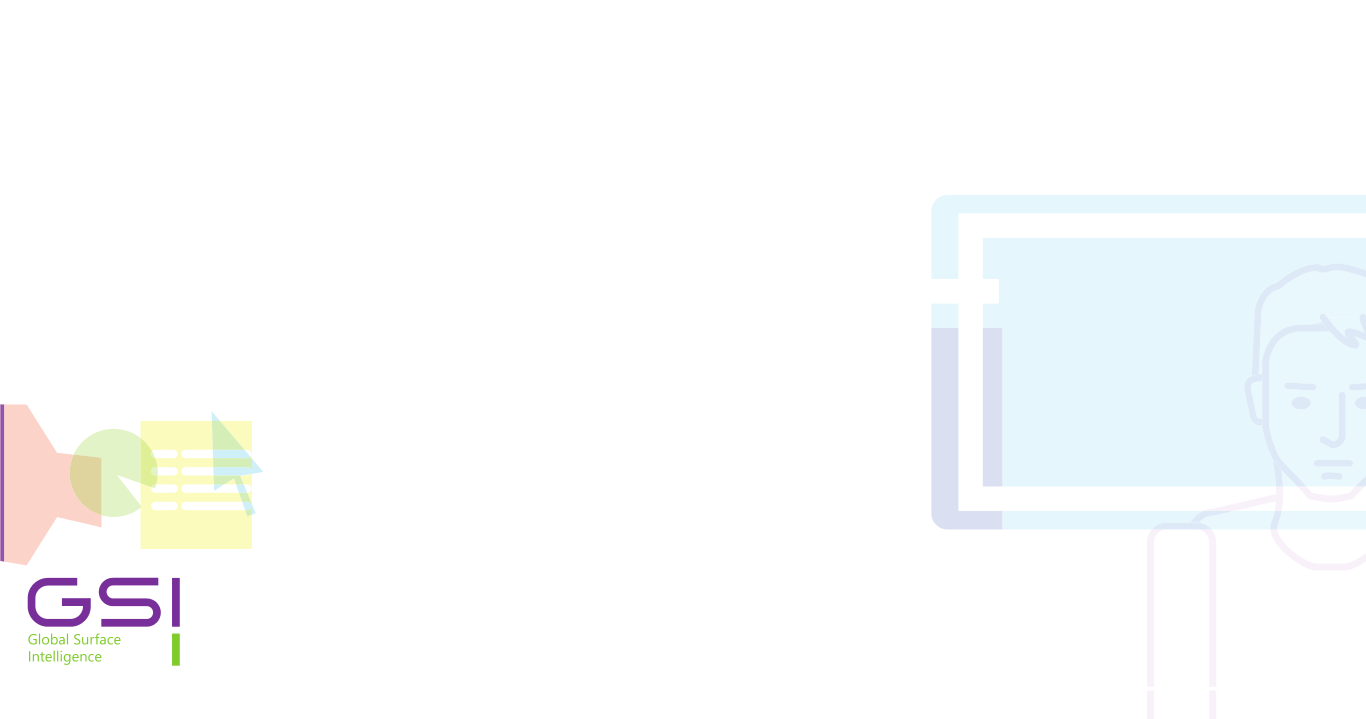
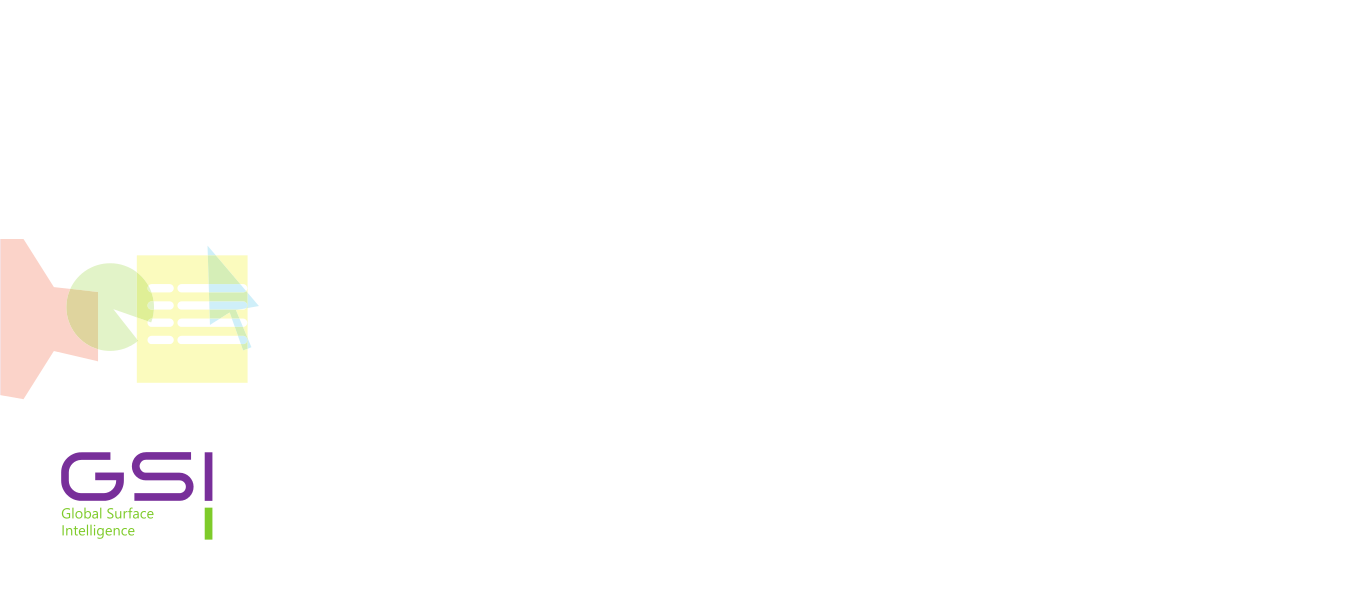
change design for the customer section

Changed region(s): [[0.6809, 0.2736, 1.0, 0.7601], [0.0, 0.3953, 0.1857, 0.9426], [0.9904, 0.6689, 1.0, 0.6993]]

diff --git a/src/templates/base_customer.html b/src/templates/base_customer.html
@@ -47,16 +47,16 @@
                     <!-- Start Top Menu -->
                     <div class="row">
                         <div class="col-md-12 center">
-                            <nav class="navbar navbar-static-top main-menu navbar-main-menu">
+                            <nav class="navbar navbar-static-top main-menu-customer navbar-main-menu">
                                 <div class="container-fluid">
-                                    <!-- Brand and toggle get grouped for better mobile display -->
-                                    <a class="dropbtn brand-logo navbar-brand" href="{% url 'index' %}">GSi</a>
-                                    <!-- End Brand and toggle get grouped for better mobile display -->
+                                    <!-- DataSets in the InfoPanel -->
+                                    <div class="navbar-brand white"><b class="purple">Dataset: </b><span id="info_dataset"></span></div>
+                                    <!-- End DataSets in the InfoPanel -->
 
                                     <div class="collapse navbar-collapse">
                                         <div class="dropdown user-profile" id="dropUser">
-                                            <button class="dropbtn-user dropdown-toggle" id="titleUser" onclick="showSubMenuUser()">
-                                                {{ request.user }}
+                                            <button class="dropbtn-user dropdown-toggle white" id="titleUser" onclick="showSubMenuUser()">
+                                                <b class="purple">User:</b> {{ request.user }}
                                                 <i class="fa fa-caret-right icon-visible-user"></i>
                                                 <i class="fa fa-caret-down icon-visible-user" style="display: none"></i>
                                             </button>
@@ -87,9 +87,9 @@
                         <form class="form-modal" id="customer_section_left" action="{% url 'customer_section' %}" method="get" enctype="multipart/form-data" role="form" class="form-horizontal">
                             {% csrf_token %}
 
-                            <div class="col-md-2 li-menu dropdown-left-0 left" id="dropdownMenu">
+                            <div class="col-md-2 li-menu dropdown-left-0 left col1" id="dropdownMenu">
                                 <label class="control-label margin-top-25">Datasets:</label>
-                                <select class="form-control margin-top-15" name="select" id="mydataset" onchange="showDataSets({{ data_set_id }})">
+                                <select class="form-control" name="select" id="mydataset" onchange="showDataSets({{ data_set_id }})">
                                     {% for ds in data_sets %}
                                         <option id="{{ ds.id }}" name="{{ ds }}" value="{{ ds.id }}" {% if data_set_id == ds.id %}selected="selected"{% endif %}>{{ ds }}</option>
                                     {% endfor %}
@@ -98,14 +98,15 @@
                         </form>
                         <!-- END Left Sidebar for the Customer Section -->
 
-                        <!-- Start Status Messages -->
-                        <div class="col-md-8">
-                            {% include '_base_message.html' %}
-                        </div>
-                        <!-- End Status Messages -->
+                        
+                        
 
                         <!-- Start Content -->
-                        <div class="col-md-8" id="content-column">
+                        <div class="col-md-8 margin-top-020" id="content-column">
+                            <!-- Start Status Messages -->
+                            {% include '_base_message.html' %}
+                            <!-- End Status Messages -->
+                            
                             <!-- Title -->
                             <h2>{% block title_customer %}{% endblock title_customer %}</h2>
                             <!-- End Title -->
@@ -115,11 +116,11 @@
 
 
                         <!-- Right Sidebar for the Customer Section -->
-                        {% if data_sets %}
-                            <form class="form-modal" id="customer_section_right" action="{% url 'customer_section' %}" method="post" enctype="multipart/form-data" role="form" class="form-horizontal">
-                                {% csrf_token %}
-
-                                <div class="col-md-2 li-menu dropdown-left-0 left" id="dropdownMenu">
+                        <form class="form-modal" id="customer_section_right" action="{% url 'customer_section' %}" method="post" enctype="multipart/form-data" role="form" class="form-horizontal">
+                            {% csrf_token %}
+                            
+                            <div class="col-md-2 li-menu dropdown-left-0 left col-map" id="dropdownMenu">
+                                {% if dirs_list %}
                                     <label class="control-label margin-top-25">Info Panel:</label>
                                     {# <h4 class="margin-top-40 background-fill-grey"><b>Info Panel</b></h4>#}
                                     <select class="form-control margin-top-10" name="root_filenames[]" multiple size="8">
@@ -127,19 +128,17 @@
                                             <option value="{{ dl.id }}" {% if dl.attribute_name in dirs_infopanel %}selected="selected"{% endif %}>{{ dl.attribute_name }}</option>
                                         {% endfor %}
                                     </select>
-
-                                    {% if dirs_list %}
-                                        <label class="control-label margin-top-25">Statistics:</label>
-                                        <select class="form-control margin-top-10 disable" name="statistics[]" multiple size="6">
-                                            <option value="mean_ConditionalMax" {% if 'mean_ConditionalMax' in statisctics_infopanel %}selected="selected"{% endif %}>mean_ConditionalMax</option>
-                                            <option value="mean_ConditionalMean" {% if 'mean_ConditionalMean' in statisctics_infopanel %}selected="selected"{% endif %}>mean_ConditionalMean</option>
-                                            <option value="mean_ConditionalMedian" {% if 'mean_ConditionalMedian' in statisctics_infopanel %}selected="selected"{% endif %}>mean_ConditionalMedian</option>
-                                            <option value="mean_ConditionalMin" {% if 'mean_ConditionalMin' in statisctics_infopanel %}selected="selected"{% endif %}>mean_ConditionalMin</option>
-                                            <option value="mean_LowerQuartile" {% if 'mean_LowerQuartile' in statisctics_infopanel %}selected="selected"{% endif %}>mean_LowerQuartile</option>
-                                            <option value="mean_Quantile" {% if 'mean_Quantile' in statisctics_infopanel %}selected="selected"{% endif %}>mean_Quantile</option>
-                                        </select>
-                                    {% endif %}
-                                    
+                                
+                                    <label class="control-label margin-top-25">Statistics:</label>
+                                    <select class="form-control margin-top-10 disable" name="statistics[]" multiple size="6">
+                                        <option value="mean_ConditionalMax" {% if 'mean_ConditionalMax' in statisctics_infopanel %}selected="selected"{% endif %}>mean_ConditionalMax</option>
+                                        <option value="mean_ConditionalMean" {% if 'mean_ConditionalMean' in statisctics_infopanel %}selected="selected"{% endif %}>mean_ConditionalMean</option>
+                                        <option value="mean_ConditionalMedian" {% if 'mean_ConditionalMedian' in statisctics_infopanel %}selected="selected"{% endif %}>mean_ConditionalMedian</option>
+                                        <option value="mean_ConditionalMin" {% if 'mean_ConditionalMin' in statisctics_infopanel %}selected="selected"{% endif %}>mean_ConditionalMin</option>
+                                        <option value="mean_LowerQuartile" {% if 'mean_LowerQuartile' in statisctics_infopanel %}selected="selected"{% endif %}>mean_LowerQuartile</option>
+                                        <option value="mean_Quantile" {% if 'mean_Quantile' in statisctics_infopanel %}selected="selected"{% endif %}>mean_Quantile</option>
+                                    </select>
+                                
                                     <div class="margin-top-20 button-link">
                                         <a name="remove-selected-items" onclick="removeSelectedItems()" href="">
                                             Remove the all selected items
@@ -151,29 +150,29 @@
                                             Add to list view
                                         </button>
                                     </div>
-                                    
-                                    {% if polygons_list %}
-                                        <label class="control-label margin-top-25">Area of Interest:</label><br />
-                                        {% for polygon in polygons_list%}
-                                            <input type="radio" name="polygon" value="{{ polygon }}.kml" onchange="setPolygon(this);"> {{ polygon }}<br>
-                                        {% endfor %}
-                                    {% endif %}
-                                </div>
-                            </form>
-                        {% endif %}
+                                {% endif %}
+                                
+                                {% if polygons_list %}
+                                    <label class="control-label margin-top-25">Area of Interest:</label><br />
+                                    {% for polygon in polygons_list%}
+                                        <input type="radio" name="polygon" value="{{ polygon }}.kml" onchange="setPolygon(this);"> {{ polygon }}<br>
+                                    {% endfor %}
+                                {% endif %}
+                            </div>
+                        </form>
                     </div>
                 </div>
                 
                 <!-- Start Bufer -->
-                <div class="footer-push"></div>
+                <!-- <div class="footer-push"></div> -->
                 <!-- End Bufer -->
             </div>
             
             <!-- Start Footer -->
-            <div class="row footer">
-                <footer class="col-md-12 center margin-top-50 margin-bottom-50 font-11">
-                    &copy; {{ CURRENT_YEAR }} GSi Web Site
-                </footer>
+            <div class="row footer-row">
+                <div class="col-md-12 footer">
+                    <span class="padding-top-15">&copy; {{ CURRENT_YEAR }} GSi Web Site</span>
+                </div>
             </div>
             <!-- End Footer -->
         {% endif %}

diff --git a/src/static/css/styles.css b/src/static/css/styles.css
@@ -47,10 +47,20 @@ html, body {
     margin: 0 0 -100px 0;
     padding: 0;
 }
-.footer-push, .footer {
-    height: 100px;
+
+.footer-row {
+    margin-top: 100px;
+}
+
+.footer {
+    /*position: absolute;*/
+    text-align: center;
+    background-color: #7f3f98;
+    color: #66afe9;
+    height: 30px;
     margin: 0;
     padding: 0;
+    padding-top: 5px;
 }
 
 /* New style for the fileld for forms */
@@ -246,6 +256,10 @@ th {
     margin-bottom: 4px !important;
 }
 
+.margin-bottom-20 {
+    margin-bottom: 20px !important;
+}
+
 .margin-left-12 {
     margin-left: 20px !important;
 }
@@ -263,6 +277,10 @@ th {
     margin-top: -20px !important;
 }
 
+.margin-top-030 {
+    margin-top: -30px !important;
+}
+
 .margin-top-040 {
     margin-top: -40px !important;
 }
@@ -274,6 +292,10 @@ th {
 /* Paddings "+" */
 .padding-0 {
     padding: 0;
+}
+
+.padding-top-15 {
+    padding-top: 15px;
 }
 
 .padding-left-0 {
@@ -731,9 +753,11 @@ li.active-main-menu, li.active-main-menu a:hover, li.li-menu > a:hover, .title:h
 
 #map {
     /*width: 890px;*/
-    height: 800px;
+    height: 880px;
     float: left;
-    width: 102%;
+    width: 104%;
+    /*padding-left: -50px;*/
+    margin-left: -5px;
 }
 
 hr {
@@ -908,7 +932,7 @@ input[type="checkbox"]:checked + span {
 
 #user-photo {
     position: absolute;
-    bottom: 755px;
+    bottom: 830px;
     left: 45%;
     z-index: 3;
     /*background-color: #fff;*/
@@ -926,4 +950,58 @@ input[type="checkbox"]:checked + span {
     /*padding-top: 8px;*/
     /*padding-bottom: 8px;*/
     /*padding-left: 5px;*/
+}
+
+
+/* Style for the customer section */
+.col1 {
+    /*width:300px;*/
+    margin-top: -50px;
+    height: 980px;
+    float: left;
+    box-shadow: inset -5px 0 0 #7f3f98;
+}
+
+.col-map {
+    /*width:300px;*/
+    margin-top: -50px;
+    height: 980px;
+    float: right;
+    box-shadow: inset 5px 0 0 #7f3f98;
+}
+
+.main-menu-customer {
+    background-repeat: repeat-x;
+    border-color: #7f3f98;
+    background-image: none !important;
+    background-color: #66afe9 !important;
+    margin-right: -30px;
+    margin-left: -30px;
+    padding-left: 30px;
+    
+    border-bottom-width: 5px;
+    border-bottom-style: solid;
+    border-bottom-color: #7f3f98;
+}
+
+.purple {
+    color: #7f3f98;
+}
+
+.white {
+    color: white !important;
+}
+
+/* Nav Bar Brand */
+.my-navbar-brand {
+    min-width: 550px !important;
+    text-align: left !important;
+}
+
+.dataset-select {
+    max-width: 200px;
+}
+
+.label-dataset {
+    max-width: 50px;
 }

diff --git a/src/templates/customers/customer_section.html b/src/templates/customers/customer_section.html
@@ -2,8 +2,6 @@
 {% load static from staticfiles %}
 {% load php %}
 
-{% block title_customer %}{{ title }}{% endblock title_customer %}
-
 {% block content_customer %}
 	{% if error_message %}
 		<h3>{{ error_message }}</a></h3>
@@ -12,7 +10,7 @@
 		{% csrf_token %}
 
 			<!-- Draw Menu -->
-			<div class="row margin-top-35">
+			<div class="row margin-top-20 ">
 				<div class="col-md-4 right">
 					<button type="button" class="btn btn-default" onclick="appliedMarkers();"><img class="img-draw" src="{% static 'img/map-marker-plus.png' %}" alt="hand" title="Applied Markers" class="area-draw"></button>
 					<button type="button" class="btn btn-default" onclick="drawPoligon();"><img class="img-draw" src="{% static 'img/vector-polygon.png' %}" alt="vector polygon" title="Draw a Poligon" class="area-draw"></button>
@@ -49,7 +47,7 @@
 			<!-- End Draw Menu -->
 
 			<!-- Google map -->
-			<div class="row margin-top-35">
+			<div class="row margin-top-4">
 				<div class="col-md-12 margin-010">
 					<!-- [START region_toolbar] -->
 					<!-- Add an input button to initiate the toggle method on the overlay. -->

diff --git a/src/static/js/scripts.js b/src/static/js/scripts.js
@@ -230,6 +230,15 @@ function greyColorSelect() {
     });
 }
 
+function setDataSetInfoPanel() {
+    var select_dataset = $("#mydataset option:selected");
+    var info_dataset = $("span#info_dataset");
+    var current_dataset = select_dataset.html();
+    $(info_dataset).html(current_dataset);
+    
+    // alert('SELECT: '+current_dataset);
+}
+
 
 $(document).ready(function(){
     //selectAll();
@@ -247,5 +256,6 @@ $(document).ready(function(){
     initSelectConfigFile();
     initAddFormatingTextarrea();
     greyColorSelect();
+    setDataSetInfoPanel();
     // showCheckboxes();
 });

diff --git a/src/static/js/scripts_ajax.js b/src/static/js/scripts_ajax.js
@@ -230,7 +230,7 @@ function showDataSets(obj) {
     var select_dataset = $("#mydataset option:selected");
     var datasets_id = $(select_dataset).val();
     var form_url = $('#customer_section').attr('action');
-
+    
     $.ajax({
         url: form_url,
         type: 'GET',
